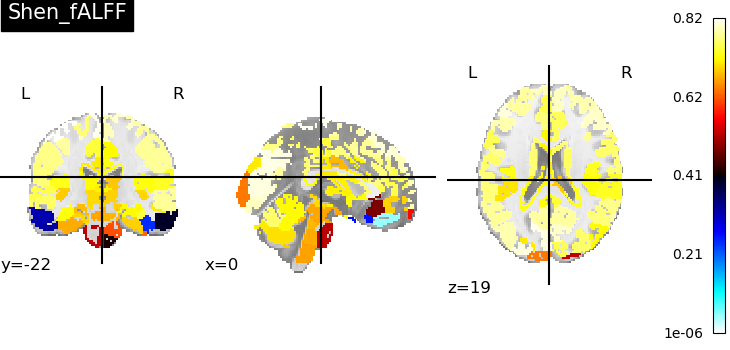
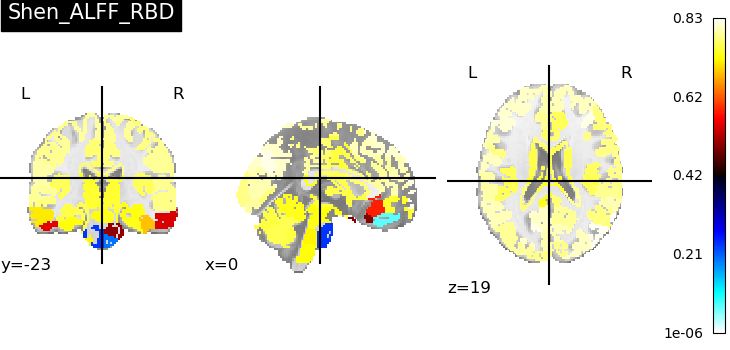
shen_ALFF compare commit

diff --git a/Visualization/Visualization.py b/Visualization/Visualization.py
@@ -12,7 +12,7 @@ from Feature_Extraction.Shen_features.Classification_feature import region_alff_
 
 reho_path_afni = '/Users/oj/Desktop/Yoo_Lab/post_fMRI/confounds_regressed_RBD/reho/reho_01.nii.gz'
 reho_path_CPAC = '/Users/oj/Desktop/Yoo_Lab/CPAC/RBD/sub-01/results/ReHo.nii.gz'
-alff_path = '/Users/oj/Desktop/Yoo_Lab/CPAC/HC/sub-01/results/alff.nii.gz'
+alff_path = '/Users/oj/Desktop/Yoo_Lab/CPAC/RBD/sub-01/results/alff.nii.gz'
 falff_path = '/Users/oj/Desktop/Yoo_Lab/CPAC/HC/sub-01/results/falff.nii.gz'
 
 alff_img = image.load_img(alff_path)
@@ -30,7 +30,7 @@ alff_img_masked = shen_atlas.inverse_transform(alff_data)
 falff_img_masked = shen_atlas.inverse_transform(falff_data)
 
 
-plotting.plot_stat_map(alff_img_masked, title="Shen_ALFF_HC")
+plotting.plot_stat_map(alff_img_masked, title="Shen_ALFF_RBD")
 plotting.show()
 
 
